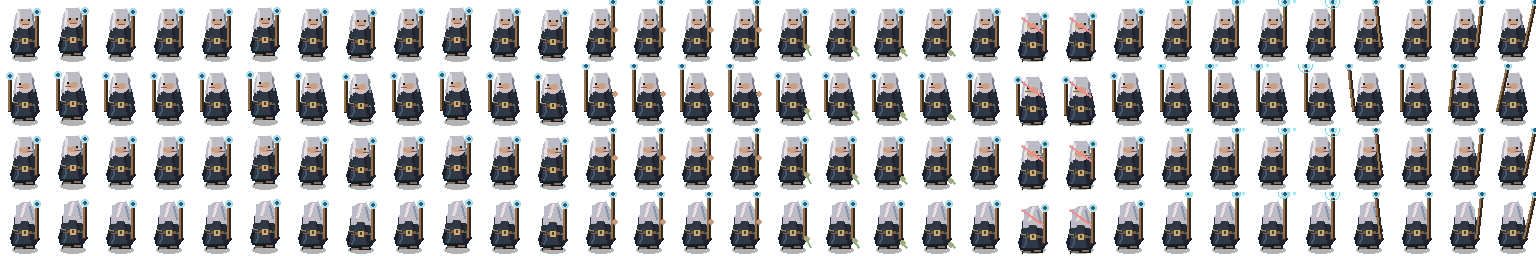
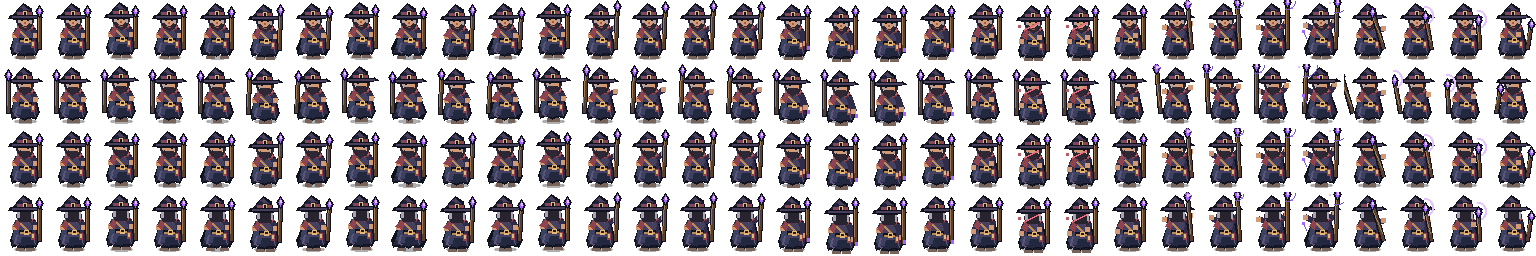
art(peren): replace placeholder sprites with M1e pixel animation set

diff --git a/tools/make_peren_m1e.py b/tools/make_peren_m1e.py
@@ -1,0 +1,235 @@
+"""M1e: original handcrafted pixel art for Peren (no external runtime assets).
+
+Standalone generator: replaces only Peren's animation atlas, metadata and portraits.
+Usage: python tools/make_peren_m1e.py
+"""
+from pathlib import Path
+from PIL import Image, ImageDraw
+import json, math
+
+ROOT = Path(__file__).resolve().parents[1]
+DEST = ROOT / 'phaser/assets/characters/peren'
+DEST.mkdir(parents=True, exist_ok=True)
+W,H = 48,64
+DIRECTIONS = ['down', 'left', 'right', 'up']
+ACTIONS = ['idle','walk','run','interact','gather','hurt','cast','attack']
+FPS = {'idle':4,'walk':8,'run':12,'interact':7,'gather':7,'hurt':8,'cast':9,'attack':11}
+P={
+ 'outline':'#10121d','dark':'#1b1b2d','cloth':'#302c48','cloth2':'#44405f','clothlit':'#615477',
+ 'coat':'#24283f','coatlit':'#394260','trim':'#bd895a','gold':'#e2b879',
+ 'hat':'#22233a','hatlit':'#49405d','band':'#844655', 'wine':'#8f434d','scarflit':'#b35f63',
+ 'skin':'#d19a74','skinlit':'#efbe91','shadow':'#985e53','hair':'#27242f','grey':'#a8a4b6',
+ 'beard':'#302734','boots':'#1a1b28','bootrim':'#77635a','wood':'#574032','woodlit':'#a17a51',
+ 'core':'#b8a0ff','magic':'#aa64ff','glow':'#e4c4ff','rune':'#6e57bd',
+}
+
+def poly(d, pts, color):d.polygon(pts,fill=P.get(color,color))
+def rect(d,xy,color):d.rectangle(xy,fill=P.get(color,color))
+def line(d,xy,color,width=1):d.line(xy,fill=P.get(color,color),width=width)
+
+def make_actor(direction, action, frame):
+    im=Image.new('RGBA',(W,H));d=ImageDraw.Draw(im)
+    side=direction in ('left','right'); rev=direction=='left';back=direction=='up'
+    walking=action in ('walk','run');step=[-2,0,2,0][frame] if walking else 0
+    if action=='run':step=round(step*1.6)
+    bob=([0,1,0,-1][frame] if walking else [0,0,-1,0][frame] if action=='idle' else 0)
+    if action=='gather':bob+=3 if frame in (1,2) else 1
+    if action=='hurt':bob+=2 if frame in (1,2) else 0
+    tilt=2 if action=='hurt' and frame in (1,2) else 0
+    cy=lambda y:y+bob+tilt
+    swing=([0,1,2,0][frame] if walking else [0,1,0,-1][frame])
+    # Shadow floats at fixed ground contact; character remains anchored across every clip.
+    d.ellipse((14,55,36,59),fill=(8,8,18,84))
+    # Boots & trouser stepping, with visible two legs even when facing sideways.
+    if side:
+        rect(d,(20-step,46+bob,24-step,56+bob),'boots')
+        rect(d,(26+step,46+bob,30+step,56+bob),'boots')
+        rect(d,(19-step,55+bob,25-step,58+bob),'bootrim')
+        rect(d,(25+step,55+bob,31+step,58+bob),'bootrim')
+    else:
+        rect(d,(17+step,45+bob,23+step,57+bob),'boots')
+        rect(d,(27-step,45+bob,33-step,57+bob),'boots')
+        rect(d,(16+step,56+bob,24+step,58+bob),'bootrim')
+        rect(d,(26-step,56+bob,34-step,58+bob),'bootrim')
+    # Flowing cloak: lower edge changes with walk phase (not a translation-only animation).
+    flare=abs(step)+(2 if action=='cast' and frame==3 else 0)
+    poly(d,[(18,25+bob),(33,25+bob),(39+flare,48+bob),(35+flare,55+bob),
+            (29,53+bob),(24,56+bob),(18,53+bob),(12-flare,55+bob),(10-flare,48+bob)],'outline')
+    poly(d,[(17,26+bob),(32,26+bob),(37+flare,48+bob),(34,53+bob),(29,52+bob),
+            (24,54+bob),(16,52+bob),(12-flare,53+bob),(13,43+bob)],'coat')
+    poly(d,[(16,28+bob),(23,30+bob),(20,50+bob),(15,51+bob),(12,47+bob)],'coatlit')
+    poly(d,[(30,29+bob),(33,30+bob),(37+flare,49+bob),(34,51+bob)],'cloth')
+    line(d,[(16,43+bob),(14,50+bob),(17,52+bob)],'clothlit',2)
+    line(d,[(33,45+bob),(35,52+bob)],'clothlit')
+    # Tunic and asymmetrical leather cross strap + potion clasp
+    poly(d,[(18,25+bob),(32,25+bob),(31,44+bob),(19,44+bob)],'cloth2')
+    line(d,[(18,29+bob),(29,40+bob)],'trim',2)
+    line(d,[(19,39+bob),(31,39+bob)],'outline',4)
+    line(d,[(20,40+bob),(30,40+bob)],'trim',2)
+    rect(d,(24,38+bob,28,42+bob),'gold')
+    rect(d,(25,39+bob,27,40+bob),'dark')
+    rect(d,(31,41+bob,34,47+bob),'wine')
+    rect(d,(32,42+bob,33,45+bob),'gold')
+    # Arms/hands, posing through action frames.
+    larm=[14,35+bob];rarm=[35,35+bob]
+    if action=='gather':rarm=[37,42+bob+frame%2*2]
+    elif action=='interact':rarm=[39,27+bob-frame%2*2]
+    elif action=='cast':larm=[12-frame,27+bob-2*(frame%2)];rarm=[38,23+bob-frame]
+    elif action=='attack':rarm=[39-frame*3,28+bob+frame*2]
+    elif action=='hurt':larm=[13,39+bob];rarm=[31,35+bob]
+    line(d,[(17,29+bob),larm], 'cloth',6)
+    line(d,[(32,29+bob),rarm], 'cloth',6)
+    rect(d,(larm[0]-2,larm[1]-2,larm[0]+2,larm[1]+2),'skin')
+    rect(d,(rarm[0]-2,rarm[1]-2,rarm[0]+2,rarm[1]+2),'skin')
+    # Neck, scarf / red collar; scarf tail moves in run.
+    rect(d,(21,22+bob,28,29+bob),'skin')
+    poly(d,[(17,25+bob),(22,22+bob),(30,23+bob),(34,27+bob),(28,30+bob),(18,29+bob)],'wine')
+    line(d,[(17,26+bob),(25,28+bob),(32,26+bob)],'scarflit',2)
+    poly(d,[(17,28+bob),(13-(2 if action=='run' else 0),34+bob),(18,37+bob),(20,29+bob)],'wine')
+    # Hair framing skin; enlarged head remains 13px height above scarf.
+    if back:
+        poly(d,[(18,12+bob),(31,12+bob),(33,25+bob),(30,29+bob),(19,29+bob),(16,25+bob)],'hair')
+        rect(d,(17,19+bob,19,25+bob),'grey');rect(d,(31,19+bob,32,26+bob),'grey')
+    else:
+        poly(d,[(18,13+bob),(31,13+bob),(33,21+bob),(30,28+bob),(20,28+bob),(16,22+bob)],'hair')
+        poly(d,[(20,15+bob),(29,15+bob),(30,23+bob),(27,26+bob),(21,25+bob),(18,21+bob)],'skin')
+        line(d,[(20,16+bob),(28,16+bob)],'skinlit',2)
+        # Beard, eyebrow and nose: real facial features visible at native zoom.
+        if side:
+            eye_x=21 if rev else 27
+            rect(d,(eye_x,19+bob,eye_x+1,20+bob),'outline')
+            rect(d,((19 if rev else 29),20+bob,(20 if rev else 30),23+bob),'skinlit')
+            poly(d,[(20,22+bob),(29,23+bob),(28,28+bob),(24,31+bob),(20,27+bob)],'beard')
+            rect(d,(19 if rev else 29,17+bob,20 if rev else 30,22+bob),'grey')
+        else:
+            rect(d,(21,19+bob,22,20+bob),'outline');rect(d,(27,19+bob,28,20+bob),'outline')
+            line(d,[(21,18+bob),(23,18+bob)],'hair');line(d,[(26,18+bob),(28,18+bob)],'hair')
+            rect(d,(24,22+bob,25,23+bob),'shadow')
+            poly(d,[(20,23+bob),(23,26+bob),(26,26+bob),(29,23+bob),(29,28+bob),
+                    (25,31+bob),(22,29+bob)],'beard')
+            line(d,[(22,26+bob),(26,27+bob)],'shadow')
+            rect(d,(18,17+bob,19,22+bob),'grey');rect(d,(30,18+bob,31,23+bob),'grey')
+    # Oversized iconic pointed witch-hat, asymmetric brim. Crown/flap change with run and cast.
+    hattilt=2 if action=='cast' and frame==3 else 0
+    poly(d,[(13,14+bob),(19,7+bob),(23,3+bob),(31,8+bob),(32,14+bob)],'outline')
+    poly(d,[(15,13+bob),(22,5+bob),(24,7+bob),(29,9+bob),(30,15+bob)],'hat')
+    poly(d,[(20,7+bob),(23,5+bob),(28,10+bob),(23,9+bob)],'hatlit')
+    line(d,[(17,13+bob),(31,13+bob)],'band',3)
+    rect(d,(23,11+bob,26,15+bob),'gold')
+    rect(d,(24,12+bob,25,14+bob),'outline')
+    poly(d,[(10-hattilt,15+bob),(38+hattilt,14+bob),(42+hattilt,17+bob),(33,19+bob),
+            (13,19+bob),(8-hattilt,18+bob)],'outline')
+    line(d,[(12,16+bob),(38,16+bob)],'hatlit',2)
+    # Staff behind hand, crystal visible high above body; tilt/sweep is distinct action animation.
+    staffx=39 if not rev else 8
+    if action=='cast':tip=(staffx-4+frame*2,1+max(0,2-frame))
+    elif action=='attack':tip=(staffx-11+frame*5,11+frame*4)
+    elif action=='interact':tip=(staffx+2,5+frame%2)
+    elif walking:tip=(staffx+swing,9+abs(step))
+    else:tip=(staffx,10)
+    line(d,[(staffx,49+bob),tip],'outline',5)
+    line(d,[(staffx,48+bob),tip],'wood',3)
+    line(d,[(staffx-1,41+bob),(tip[0]-1,tip[1]+3)],'woodlit')
+    tx,ty=tip
+    poly(d,[(tx-4,ty+1),(tx,ty-5),(tx+4,ty+1),(tx,ty+7)],'outline')
+    poly(d,[(tx-2,ty+1),(tx,ty-3),(tx+2,ty+1),(tx,ty+5)],'magic')
+    rect(d,(tx,ty-1,tx+1,ty+1),'glow')
+    # Strong magical pose: symmetrical visual arc, glow charge and motes.
+    if action=='cast':
+        radius=[2,4,6,9][frame]
+        d.arc((tx-radius,ty-radius,tx+radius,ty+radius),200,345,fill=P['magic'],width=1)
+        d.arc((tx-radius-2,ty-radius-2,tx+radius+2,ty+radius+2),0,105,fill=P['rune'],width=1)
+        for j in range(3):
+            xx=tx+round(math.sin(j*2.4+frame)*radius*1.2)
+            yy=ty+round(math.cos(j*1.8+frame)*radius*1.3)
+            if 0<=xx<W and 0<=yy<H:rect(d,(xx,yy,xx+1,yy+1),'glow' if j==1 else 'magic')
+        if frame==3:
+            line(d,[(10,38),(7,31)],'rune');rect(d,(6,30,8,32),'magic')
+    if action=='hurt' and frame in (1,2):
+        line(d,[(16,27+bob),(30,20+bob)],'#e3727e',2)
+        rect(d,(10,23+bob,12,25+bob),'scarflit')
+    if action=='gather':
+        rect(d,(rarm[0]+2,rarm[1]+3,rarm[0]+4,rarm[1]+6),'magic')
+    if action=='attack' and frame in (1,2):
+        d.arc((tx-8,ty-9,tx+8,ty+9),265,65,fill=P['glow'],width=2)
+    return im
+
+atlas=Image.new('RGBA',(W*32,H*4))
+clips={}
+for di,direc in enumerate(DIRECTIONS):
+    for ai,action in enumerate(ACTIONS):
+        frames=[]
+        for t in range(4):
+            index=di*32+ai*4+t
+            atlas.alpha_composite(make_actor(direc,action,t),(W*(ai*4+t),H*di))
+            frames.append(index)
+        clips[f'{direc}-{action}']={'frames':frames,'fps':FPS[action], 'repeat':action in ('idle','walk','run')}
+atlas.save(DEST/'peren-atlas.png',optimize=True)
+(DEST/'atlas.json').write_text(json.dumps({'id':'peren','frameWidth':W,'frameHeight':H,
+    'directions':DIRECTIONS,'animations':clips,'author':'Projeto Carcaça',
+    'origin':'pixel art procedural original M1e; 128 frames; 32 directional clips',
+    'palette':P},indent=2,ensure_ascii=False)+'\n',encoding='utf-8')
+
+# Deliberately draw a larger portrait, not a scaled screenshot of the tiny field sprite.
+# The same hat, skin, grey streaks, scarf, beard, and purple crystal are consistent.
+def portrait(mood='neutral'):
+    c=Image.new('RGBA',(128,128),(16,17,31,255));d=ImageDraw.Draw(c)
+    for y in range(128):
+        d.line((0,y,127,y),fill=(16+y//28,17+y//19,31+y//18,255))
+    for i in range(18):
+        x=(i*37+14)%128;y=(i*59+13)%105
+        rect(d,(x,y,x+1,y+1),'rune')
+    d.ellipse((7,5,120,121),outline='#514268',width=2)
+    # shoulders, robe, travel belt
+    poly(d,[(9,126),(16,98),(35,87),(89,86),(115,99),(125,127)],'outline')
+    poly(d,[(13,126),(19,101),(42,91),(86,92),(109,101),(119,127)],'coat')
+    poly(d,[(20,100),(37,88),(48,92),(34,125),(12,126)],'coatlit')
+    poly(d,[(87,92),(110,105),(118,126),(99,126)],'cloth2')
+    line(d,[(42,91),(75,125)],'trim',4)
+    poly(d,[(36,92),(57,82),(84,86),(99,99),(77,109),(48,108)],'wine')
+    line(d,[(39,95),(66,103),(86,96)],'scarflit',4)
+    poly(d,[(37,103),(20,118),(38,125),(51,106)],'wine')
+    # neck, hair, ears, face
+    rect(d,(48,74,75,97),'shadow')
+    poly(d,[(39,38),(47,30),(79,30),(88,40),(90,73),(79,93),(43,87),(33,68)],'hair')
+    poly(d,[(43,43),(81,42),(85,69),(75,84),(55,87),(41,71)],'skin')
+    poly(d,[(47,42),(74,39),(82,45),(81,53),(44,50)],'skinlit')
+    rect(d,(39,58,43,67),'shadow');rect(d,(84,57,89,66),'shadow')
+    # expressive eyes / brows
+    line(d,[(47,57),(57,55)],'hair',3);line(d,[(68,55),(80,57)],'hair',3)
+    eye_y=61 if mood!='hurt' else 63
+    rect(d,(49,eye_y,54,eye_y+2),'outline');rect(d,(71,eye_y,76,eye_y+2),'outline')
+    rect(d,(52,eye_y,53,eye_y),'glow' if mood=='cast' else 'grey')
+    rect(d,(73,eye_y,74,eye_y),'glow' if mood=='cast' else 'grey')
+    poly(d,[(62,61),(59,70),(66,73),(68,69)],'shadow')
+    # beard in layers and grey temples
+    poly(d,[(41,71),(49,76),(59,78),(66,75),(76,77),(83,70),(84,87),(75,97),(63,103),
+            (51,96),(42,85)],'beard')
+    line(d,[(51,79),(62,82),(73,79)],'hair',4)
+    line(d,[(60,88),(67,89)],'shadow',2)
+    line(d,[(44,68),(43,83)],'grey',4);line(d,[(83,67),(84,81)],'grey',3)
+    line(d,[(56,94),(61,97),(69,94)],'clothlit',2)
+    # iconic witch hat and aged brass clasp
+    poly(d,[(28,42),(47,17),(59,7),(79,23),(83,42)],'outline')
+    poly(d,[(34,39),(55,13),(65,18),(77,24),(78,40)],'hat')
+    poly(d,[(51,19),(59,13),(70,25),(57,25)],'hatlit')
+    line(d,[(36,36),(79,36)],'band',6)
+    rect(d,(57,31,66,39),'gold');rect(d,(60,33,63,37),'dark')
+    poly(d,[(13,43),(32,39),(87,39),(109,46),(101,52),(30,52),(14,48)],'outline')
+    poly(d,[(16,44),(35,41),(90,42),(105,46),(98,48),(24,48)],'hatlit')
+    # staff glows on left, slightly in front of brim
+    line(d,[(17,125),(17,19)],'outline',8)
+    line(d,[(17,123),(17,20)],'wood',5)
+    line(d,[(15,112),(15,26)],'woodlit',2)
+    poly(d,[(9,19),(17,4),(25,19),(17,32)],'outline')
+    poly(d,[(12,19),(17,9),(22,19),(17,28)],'magic')
+    poly(d,[(16,12),(19,18),(17,23)],'glow')
+    if mood=='cast':
+        d.ellipse((2,4,32,34),outline=P['magic'],width=2)
+        for x,y in [(27,8),(32,27),(5,34),(36,11),(108,29)]:rect(d,(x,y,x+2,y+2),'glow')
+    elif mood=='hurt':
+        line(d,[(83,65),(92,75)],'scarflit',2)
+    return c.resize((256,256),Image.Resampling.NEAREST)
+for mood,name in [('neutral','portrait.png'),('cast','portrait-cast.png'),('hurt','portrait-hurt.png')]:
+    portrait(mood).save(DEST/name,optimize=True)
+print(f'Generated Peren M1e: {atlas.width}x{atlas.height} atlas, 128 frames, {len(clips)} clips, 3 portraits at {DEST}')
